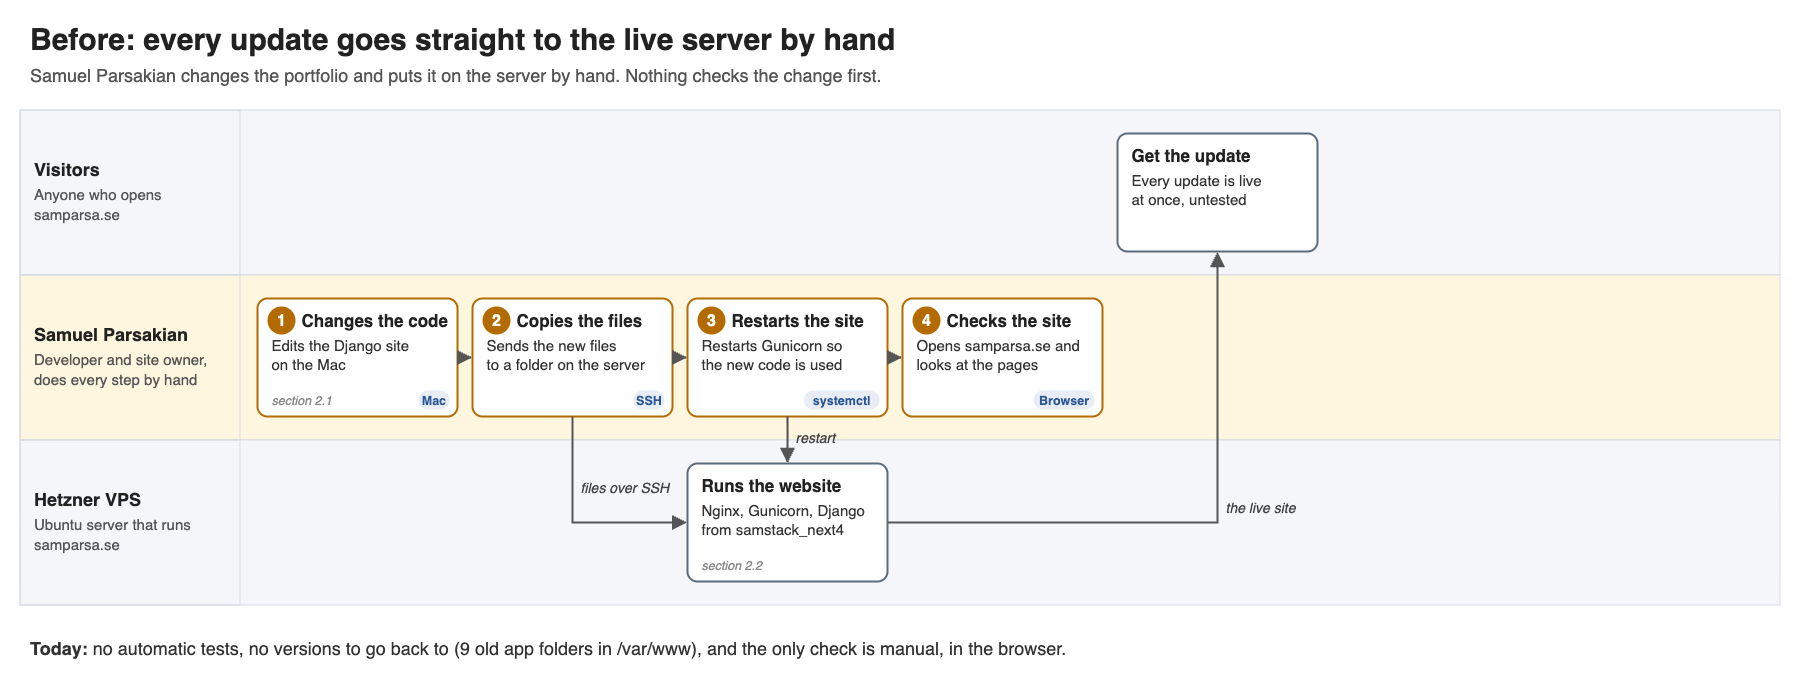
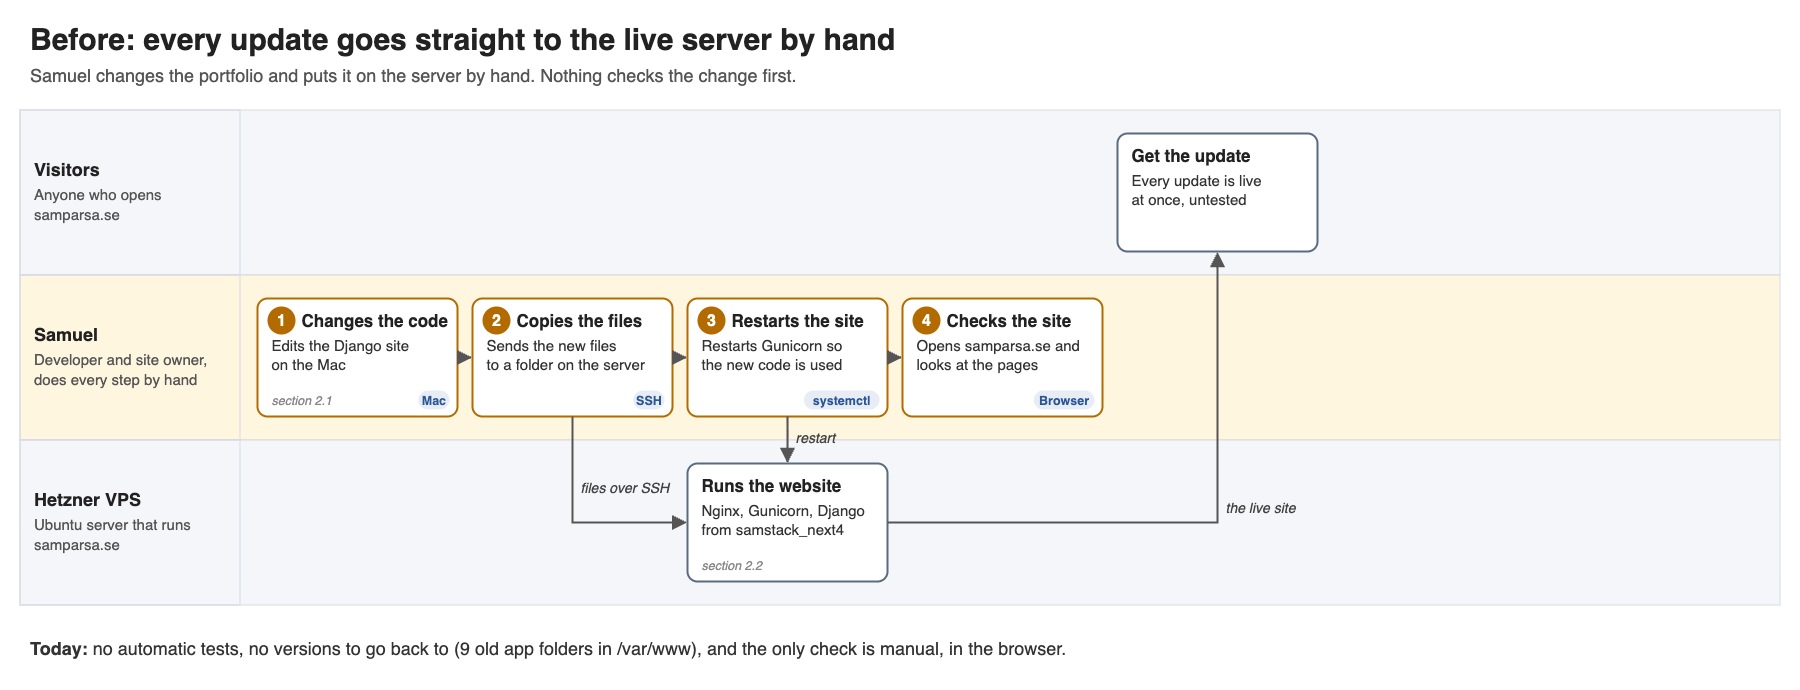
docs: use the first name only in the overview figures

Changed region(s): [[0.0311, 0.0913, 0.4978, 0.1217], [0.0622, 0.4565, 0.0933, 0.5174]]

diff --git a/project-record/project-record.md b/project-record/project-record.md
@@ -12,7 +12,7 @@ The portfolio website at samparsa.se already runs on a rented server. This secti
 
 ### 1.1 Before: Every Update Goes Straight to the Server
 
-Samuel Parsakian, the developer and owner of the site, does every step of an update by hand. Figure 1 shows the whole update from above. The numbers in the figure match the steps below.
+Samuel, the developer and owner of the site, does every step of an update by hand. Figure 1 shows the whole update from above. The numbers in the figure match the steps below.
 
 ![Overview of the manual update before the pipeline](images/overview-before-manual-update.png)
 
